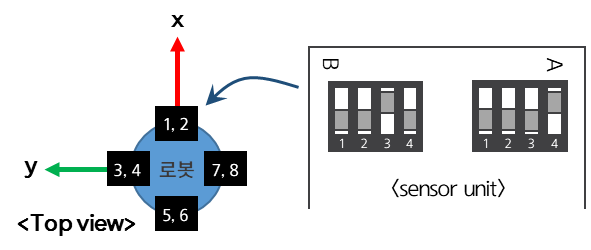
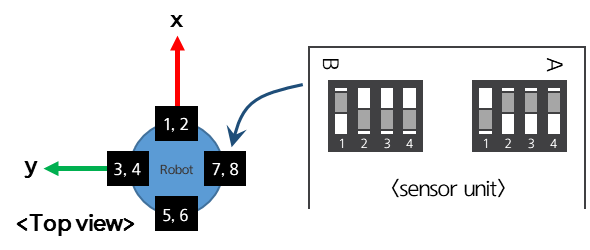
CAN ID 설정 방법 추가

diff --git a/4-System_Information/4-2-Communication/4-2-1-Sensor_unit-Control_unit_communication.md b/4-System_Information/4-2-Communication/4-2-1-Sensor_unit-Control_unit_communication.md
@@ -1,5 +1,12 @@
 ### 4.2.1   센서 유닛 - 제어 유닛 간 통신
-센서 유닛과 제어 유닛은 CAN-FD 버스를 사용하여 통신한다. 센서 유닛과 제어 유닛 간의 통신은 진단을 통하여 SIL 2와 PL d 수준을 보장한다. 하나의 제어 유닛에 연결된 다수의 센서 유닛은 서로 다른 ID를 가져야 한다. 제어 유닛과 센서 유닛은 고유한 ID를 사용하여 통신한다. 기본적으로 센서 유닛은 설치 위치에 따라 ID가 부여된다. 각 센서 유닛에 부여되는 2개의 ID 중, A 파트에는 홀수, B 파트에는 짝수 ID를 배정한다. 내장형 센서 유닛의 ID는 아래와 같이 할당하며, ID가 1과 2인 경우의 설정 방법은 아래 그림을 참조하면 된다.
+센서 유닛과 제어 유닛은 CAN-FD 버스를 사용하여 통신한다. 센서 유닛과 제어 유닛 간의 통신은 진단을 통하여 SIL 2와 PL d 수준을 보장한다. 하나의 제어 유닛에 연결된 다수의 센서 유닛은 서로 다른 ID를 가져야 한다. 내장형 센서 유닛의 ID는 아래 그림과 같이 설치 위치에 따라 부여된다. <br>
+ID를 설정하는 방법은 다음과 같다. ID는 센서 유닛의 4핀 스위치로 설정하며, A 파트에는 홀수, B 파트에는 짝수 ID를 배정한다. 각 핀은 다음과 같은 값을 의미한다. <br>
+- 4번 핀: 1
+- 3번 핀: 2
+- 2번 핀: 4
+- 1번 핀: 8
+
+원하는 ID에 해당하는 핀을 on으로 설정한다. 예를 들어, 센서 유닛의 ID를 7과 8로 지정하려면 아래 그림과 같이 A 파트의 2, 3, 4번 핀과 B 파트의 1번 핀을 on으로 설정한다. <br>
 
 <p align="center">
     <img src="../../_assets/4.2.1_figure_1.png" width="500"> </img>
